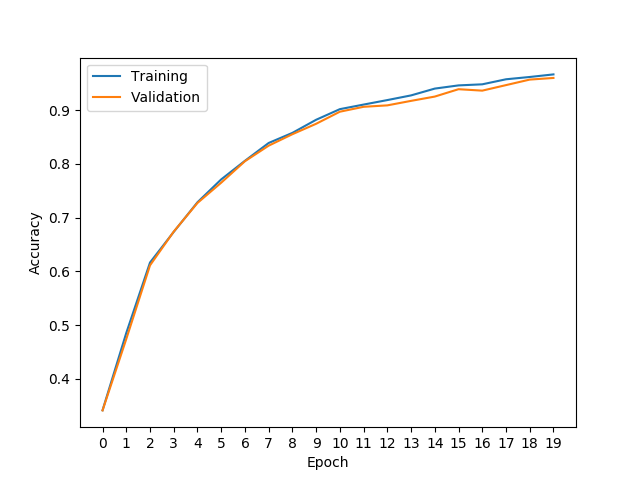
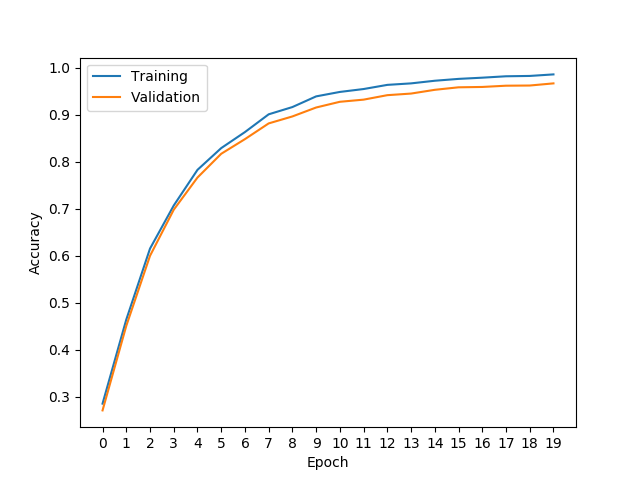
20 epoch training

diff --git a/helper.py b/helper.py
@@ -66,7 +66,11 @@ def cal_accuracy(test_loader, net, test_set=False):
     correct = 0.0
 
     # only used for test set
+
+    # true positives for each class
     correct_from_class = np.zeros(N_CLASS)
+
+    # false negatives from each class
     incorrect_from_class = np.zeros(N_CLASS)
 
     with torch.no_grad():
@@ -95,8 +99,8 @@ def cal_accuracy(test_loader, net, test_set=False):
                 incorrect_from_class[labels] += (y_pred != labels)
 
 
-        #  stacked bar chart
         if test_set:
+            # stacked bar chart for totals
             fig, ax = plt.subplots()
 
             x_axis = np.arange(N_CLASS)
@@ -119,9 +123,10 @@ def cal_accuracy(test_loader, net, test_set=False):
             ax.set_ylabel('Accuracy (%)')
             ax.set_xlabel('Class ID')
             ax.set_title('Model Accuracy on Test Set by Class')
+            ax.legend()
 
             plt.ylim(bottom=0.50)
-            plt.savefig('plots/test_set_performance_accuracy.png')
+            plt.savefig('plots/test_set_accuracy.png')
 
             # calculate statistcs
             print('\nTest Set Accuracy Statistics')

diff --git a/TrafficSignDataset.py b/TrafficSignDataset.py
@@ -17,7 +17,6 @@ class TrafficSignDataset(Dataset):
       # we want to shuffle the arrays so they are not always the exact same when training
       # make sures numpy arrays are uint8 type so arent excessvely big for pixel data
       # TODO WE MIGHT NOT NEED THIS CUZ DATALOADER MIGHT SHUFFLE ANYWAYS
-      X, y = shuffle(X.astype(np.uint8), y.astype(np.uint8))
 
       self.X = torch.from_numpy(X[data_range[0]:data_range[1]]).float()
       self.y = torch.from_numpy(y[data_range[0]:data_range[1]]).long()
@@ -30,6 +29,10 @@ class TrafficSignDataset(Dataset):
       
       
 def dataLoader(X_processed, Y_processed, TOTAL_IMAGES):
+
+    #  shuffle because classes are all next to each other based on how data was loaded
+    X_processed, Y_processed = shuffle(X_processed.astype(np.uint8), Y_processed.astype(np.uint8))
+
     TRAIN_SPLIT_SIZE = int(TOTAL_IMAGES * TRAIN_RATIO)
     VAL_SPLIT_SIZE = int(TOTAL_IMAGES * VAL_RATIO)
 

diff --git a/train.py b/train.py
@@ -54,8 +54,9 @@ def train_model(net, train_loader, val_loader):
         print('Epoch Duration:', "%.1f" % (end - start), 'seconds')
 
     training_end = time.time()
-    minutes = int(training_end - training_start) % 60
-    secs = int(training_end - training_start) / 60
+    mins = int(int(training_end - training_start) / 60)
+    secs = int(training_end - training_start) % 60
+
     print('Training Duration:', mins, 'minutes and', secs, 'seconds')
 
     return train_loss_history, val_loss_history, train_acc_history, val_acc_history

diff --git a/Net.py b/Net.py
@@ -19,8 +19,10 @@ class Net(nn.Module):
         nn.Flatten(),
         nn.Linear(in_features=16384, out_features=2048),
         nn.ReLU(inplace=True),
+        nn.Dropout(p=DROPOUT_PROB),
         nn.Linear(in_features=2048, out_features=512),
         nn.ReLU(inplace=True),
+        nn.Dropout(p=DROPOUT_PROB),
         nn.Linear(in_features=512, out_features=N_CLASS)
         )
 
